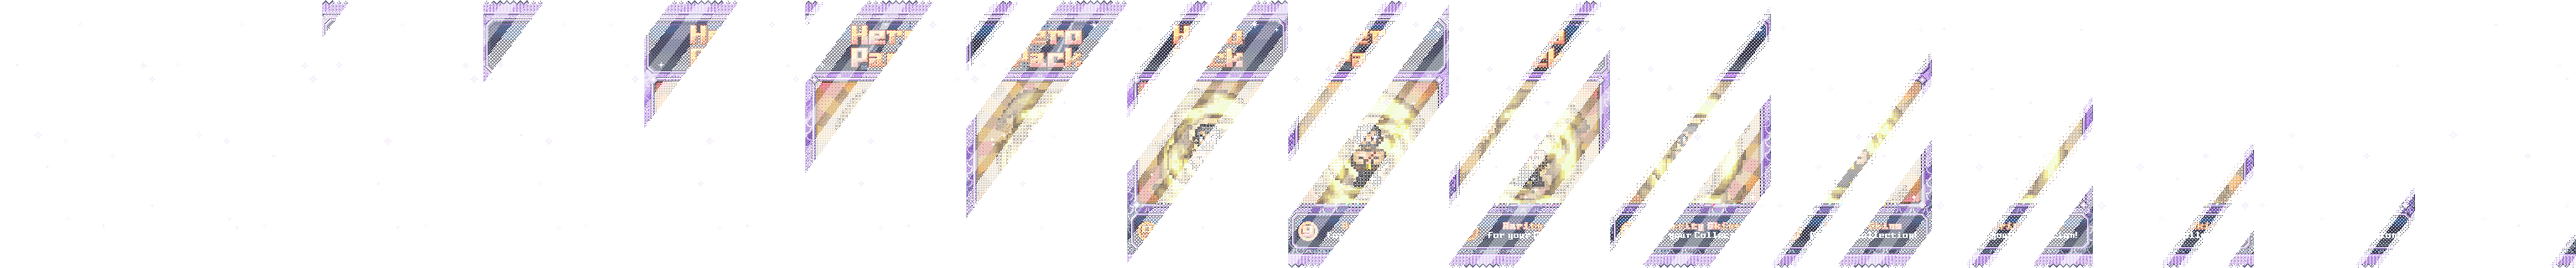
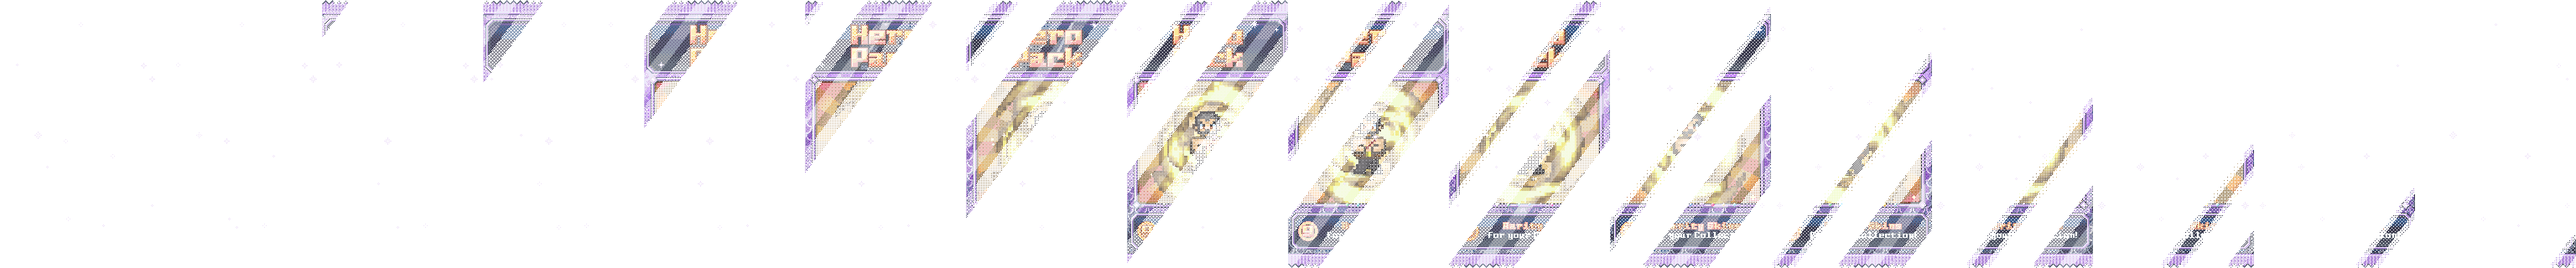
Bartas samt Explosion senkrecht zentriert
Claude-Session: https://claude.ai/code/session_012viCd2rz9NWk7WTwWzK4bi

diff --git a/scripts/booster/build_boosters.py b/scripts/booster/build_boosters.py
@@ -520,11 +520,14 @@ def tpl_hero(P, th, mt, hero, fx=None, **kw):
     """Ein Held in einheitlicher Pixelgröße auf Strahlenkranz."""
     art_burst(P, th, rot=0.2)
     art_particles(P, th, 11)
-    if fx:
-        draw_fx(P, fx, IX0 + IW // 2, IY0 + 126 - 38)      # Mitte der Figur (Sprite ca. 75 px hoch, Füße auf IY0+126)
+    base = IY0 + 126
+    if fx:      # Figur samt Effekt senkrecht in der Mitte der Kunstfläche
+        im, _ = load_solo(hero)
+        base = int(round(IY0 + IH / 2.0 + im.height * SOLO_K / 2.0))
+        draw_fx(P, fx, IX0 + IW // 2, int(round(IY0 + IH / 2.0)))
     if hero in PILE:
-        draw_pile(P, hero, IX0 + IW // 2, IY0 + 126)
-    place_sprite(P, hero, IX0 + IW // 2, IY0 + 126, shadow=hero not in PILE)
+        draw_pile(P, hero, IX0 + IW // 2, base)
+    place_sprite(P, hero, IX0 + IW // 2, base, shadow=hero not in PILE)
     return [hero]
 
 
